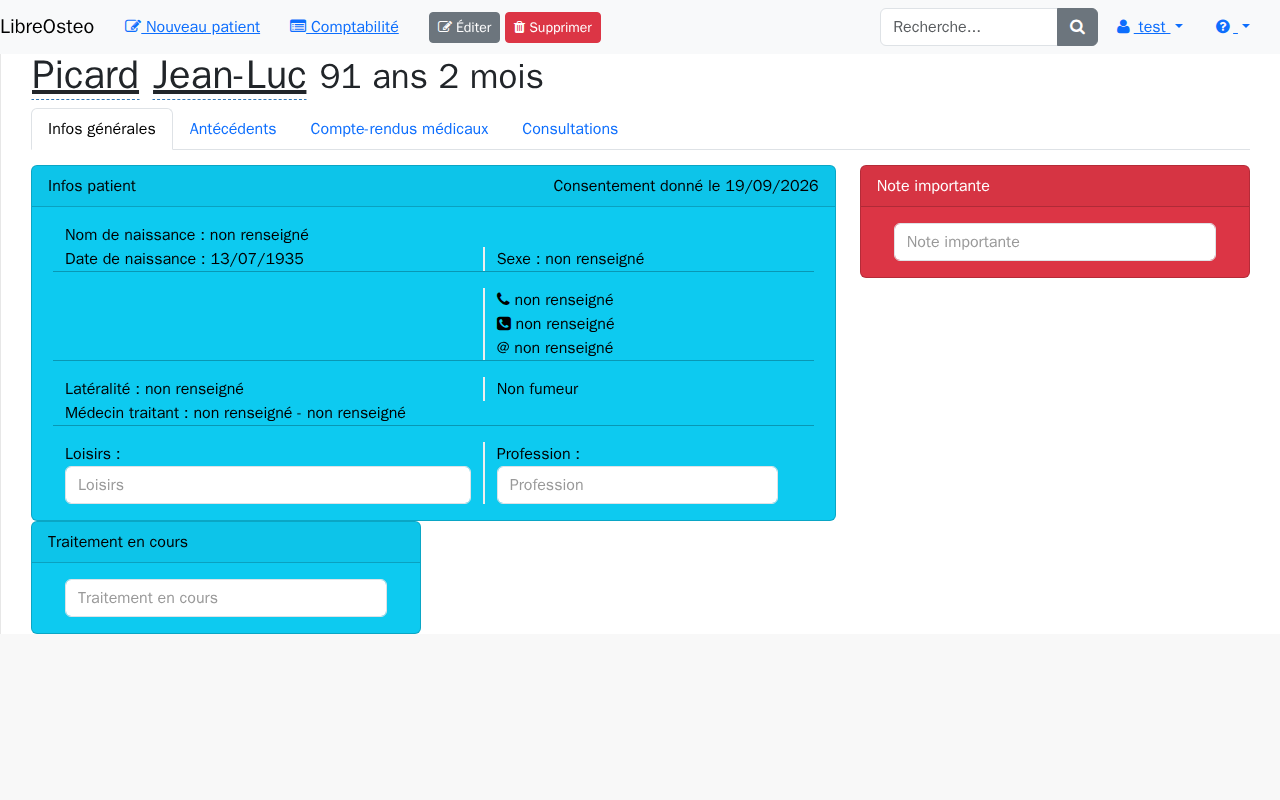
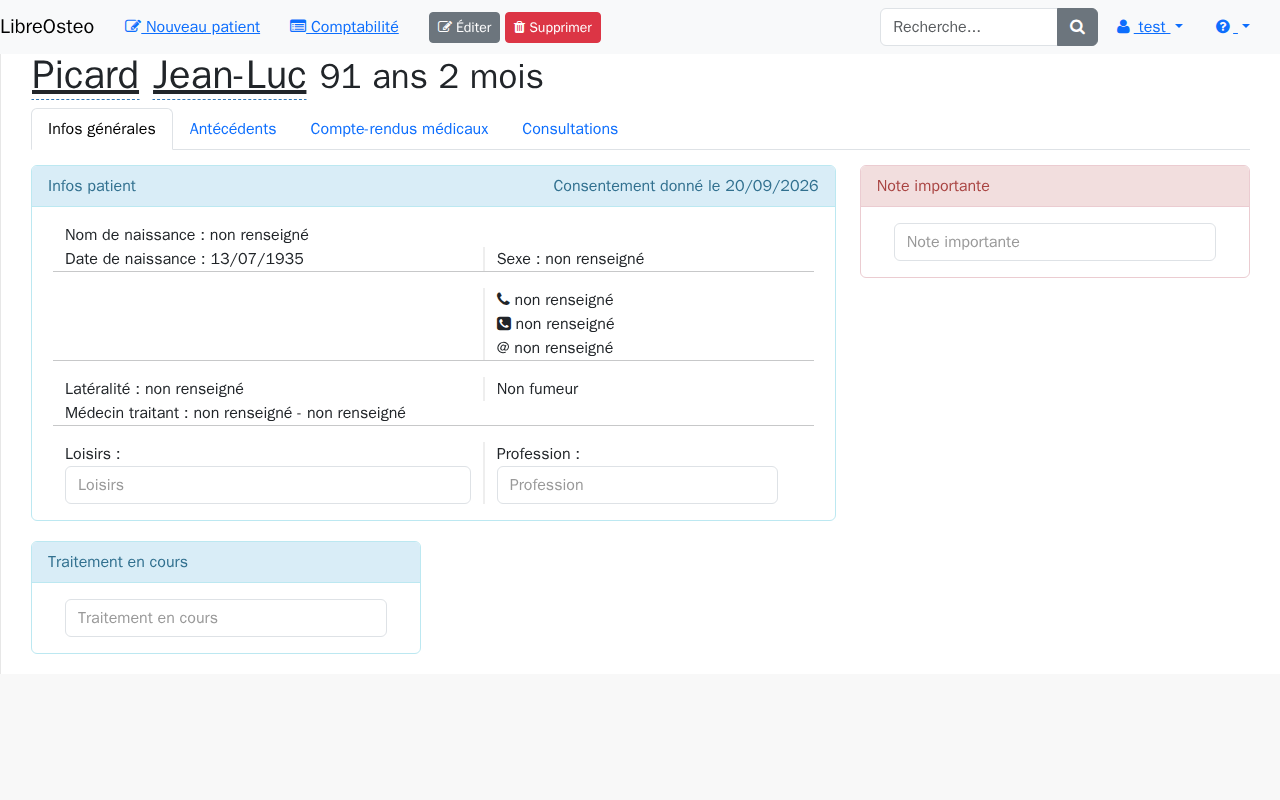
docs(recette): reecrire R-VIS-12 et R-VIS-14, recapturer apres le Lot A
Recette visuelle sur instance conteneur+PostgreSQL (commit 37a4c75) : les trois
tuiles et la densite du journal d'evenements sont mesurees au navigateur pour
R-VIS-12, les rubriques Infos patient/Note importante pour R-VIS-14 (renversement
de l'attendu carte-teintee vers titre-seul-teinte). Les quatre captures d6g sont
recapturees dans le meme etat E2.

diff --git a/docs/recette.md b/docs/recette.md
@@ -4542,10 +4542,13 @@ et `tableau-de-bord-375.png`.
    excessive sous lui (D6g T13 : la classe `page-header` disparaît, sans équivalent). Sous
    le titre, trois pastilles **Semaine** / **Mois** / **Année** : la première en bleu
    (période active), les deux autres en gris. Sous elles, **trois tuiles côte à côte, sans
-   chevauchement** : la première pleine largeur bleue (icône « + » à gauche, **0** et
-   *Nouveaux patients* à droite, alignés à droite) ; la deuxième et la troisième en fond
-   clair, même disposition icône-gauche / chiffre-et-libellé-à-droite, pour *Consultations*
-   et *Retour*. **L'icône de chaque tuile ne recouvre à aucun moment le chiffre ni le
+   chevauchement** : la première pleine largeur **bleue** (`#428bca`, icône « + » à gauche,
+   **0** et *Nouveaux patients* à droite, alignés à droite) ; la deuxième pleine largeur
+   **verte** (`#5cb85c`, *Consultations*) ; la troisième pleine largeur **rouge**
+   (`#d9534f`, *Retour*) — mêmes teintes que la version d'avant le fork (Lot A, T3,
+   `docs/superpowers/specs/2026-09-20-lot-a-restitution-visuelle-design.md`, M2 et M4). Un
+   espace de 20 px sépare chaque tuile du panneau **Évènements** sous elles (Lot A, T2).
+   **L'icône de chaque tuile ne recouvre à aucun moment le chiffre ni le
    libellé qui lui font face** — c'est le défaut corrigé par cette tâche (`col-xs-3` /
    `col-xs-9`, morts depuis Bootstrap 4, recouvraient le dernier sommet du mini-graphe). Le
    chiffre de chaque tuile est rendu à 40 px (`lo-compteur-tuile`, lot correctif D6g,
@@ -4554,8 +4557,10 @@ et `tableau-de-bord-375.png`.
    Sous les tuiles, un panneau **Évènements** : en-tête gris avec une icône de bulles, le
    mot *Évènements*, et à droite un bouton à chevron ; le corps est une zone blanche —
    vide si aucun évènement n'a eu lieu ce jour, ou listant chaque entrée sans puce ni
-   retrait, séparée de la suivante par un filet pointillé fin. Aucune barre de défilement
-   horizontale sur toute la largeur de la fenêtre.
+   retrait, séparée de la suivante par un filet pointillé fin. Chaque entrée occupe 66 px de
+   haut (Lot A, T4 : `#liste-evenements p { margin: 0 }` reprend une déclaration vivante de
+   `sb-admin-2.css` que D6g T13 n'avait pas portée). Aucune barre de défilement horizontale
+   sur toute la largeur de la fenêtre.
 2. Ramener la fenêtre à **375 px de large**.
    Attendu : les trois tuiles s'empilent en pleine largeur, **dans le même ordre**, et
    chacune garde sa disposition interne icône-à-gauche / chiffre-et-libellé-à-droite sans
@@ -4680,10 +4685,15 @@ et `dossier-patient-375.png`.
    visible sur une seule ligne. Les quatre onglets (*Infos générales*, *Antécédents*,
    *Compte-rendus médicaux*, *Consultations*) sont alignés sur un même filet horizontal,
    *Infos générales* actif et souligné. Les panneaux *Infos patient* et *Note importante*
-   sont côte à côte, en pleine couleur (D6g, annexe A : `panel-info` devient
-   `text-bg-info`, `panel-danger` devient `text-bg-danger` — la carte entière est teintée,
-   plus seulement son en-tête, à la différence de Bootstrap 3) ; le texte du panneau
-   *Infos patient* reste lisible en noir sur fond bleu clair. Sous *Infos patient*, le
+   sont côte à côte, **le titre seul porte la couleur** (Lot A, T1 : `.lo-rubrique`,
+   `docs/superpowers/specs/2026-09-20-lot-a-restitution-visuelle-design.md`) — *Infos
+   patient* en bleu clair pâle (`#d9edf7`, encre `#31708f`), *Note importante* en rouge pâle
+   (`#f2dede`, encre `#a94442`), à l'identique de la version d'avant le fork. **Le corps de
+   chaque panneau est blanc** (`#fff`), et le trait qui encadre la carte porte la couleur de
+   la rubrique (`#bce8f1` pour *Infos patient*, `#ebccd1` pour *Note importante*). ⚠ **Ceci
+   renverse l'attendu précédent de cette fiche** (carte entièrement teintée), consigné à la
+   clôture de D6g puis invalidé par l'usage réel — cf. `KANBAN.md`, entrée du 2026-09-20.
+   Sous *Infos patient*, le
    panneau *Traitement en cours* occupe environ un tiers de la largeur de la grille
    (`col-md-4`), soit à peu près la moitié de la largeur du panneau *Infos patient*
    au-dessus de lui — la grille reprend une nouvelle ligne, elle ne s'aligne pas sur la
@@ -4702,24 +4712,6 @@ et `dossier-patient-375.png`.
 
 **Ne couvre pas** :
 
-- les onglets *Antécédents*, *Compte-rendus médicaux* et *Consultations* : la capture de
-  référence s'arrête sur *Infos générales*.
-
-  **Défaut relevé et corrigé à la passe de clôture de D6g (2026-09-20), hors des deux
-  captures officielles** — ni les 32 captures ni aucun test n'atteignent l'onglet
-  *Consultations* sur une séance passée : `pages/fragments/consultation.html` posait
-  `<div class="col-md-7">` (le volet de lecture) et `<div class="col-md-5">` (patient,
-  antécédents) comme **frères directs sans `.row` commun** — en Bootstrap 3, `.col-md-*`
-  flottait et les deux colonnes se plaçaient côte à côte sans lui ; en Bootstrap 5.3.8 elles
-  ne portent plus que `flex`/`width`, sans effet hors d'un conteneur `display:flex`, et les
-  deux colonnes s'empilaient. **Correctif** : `class="row"` posé sur le conteneur du volet
-  (`<div id="{{ volet.prefixe }}-volet">`), déjà parent direct des deux colonnes — aucun
-  élément ajouté, même geste que `row` sur le `<form>` de R-VIS-13. Vérifié par une passe
-  complémentaire hors captures officielles (script jetable, supprimé après usage, même
-  convention que R-VIS-13) : rectangles mesurés sur une consultation réellement clôturée,
-  `col-md-7`/`col-md-5` côte à côte à 1 280 px (`top` identique, `right` de la première égal
-  au `left` de la seconde) et empilés à 375 px (le `top` de la seconde égale le `bottom` de
-  la première) ;
 - les trois boutons d'action d'une vignette de document en édition (*Valider*, *Annuler*,
   *Supprimer* — `document-edition.html`) et le bouton *Éditer* d'une vignette en lecture
   (`document-vignette.html`) : hors des deux captures de référence, l'onglet
